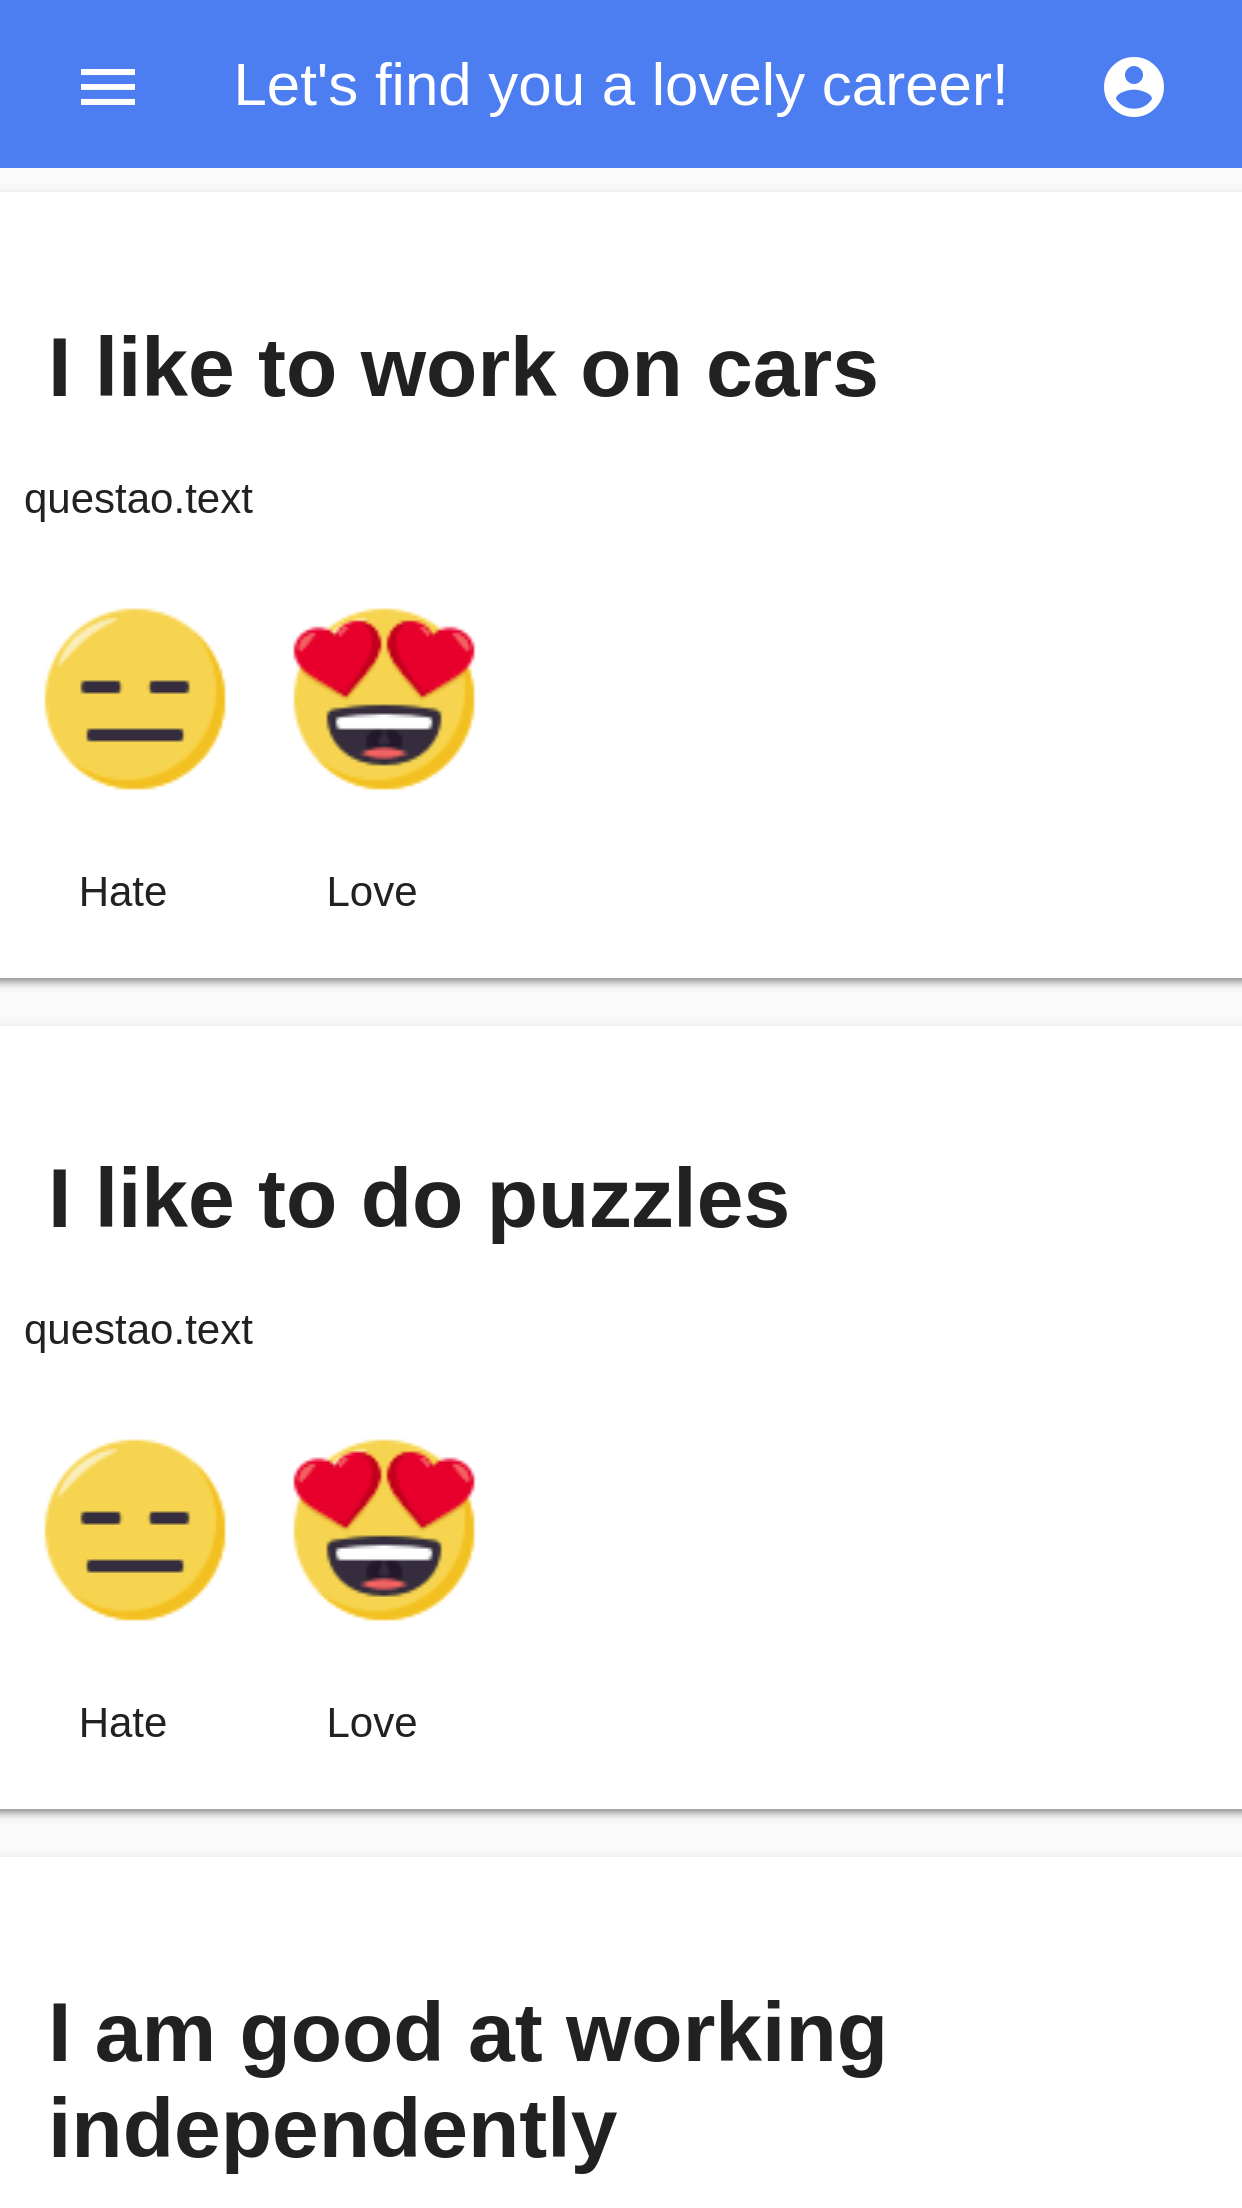
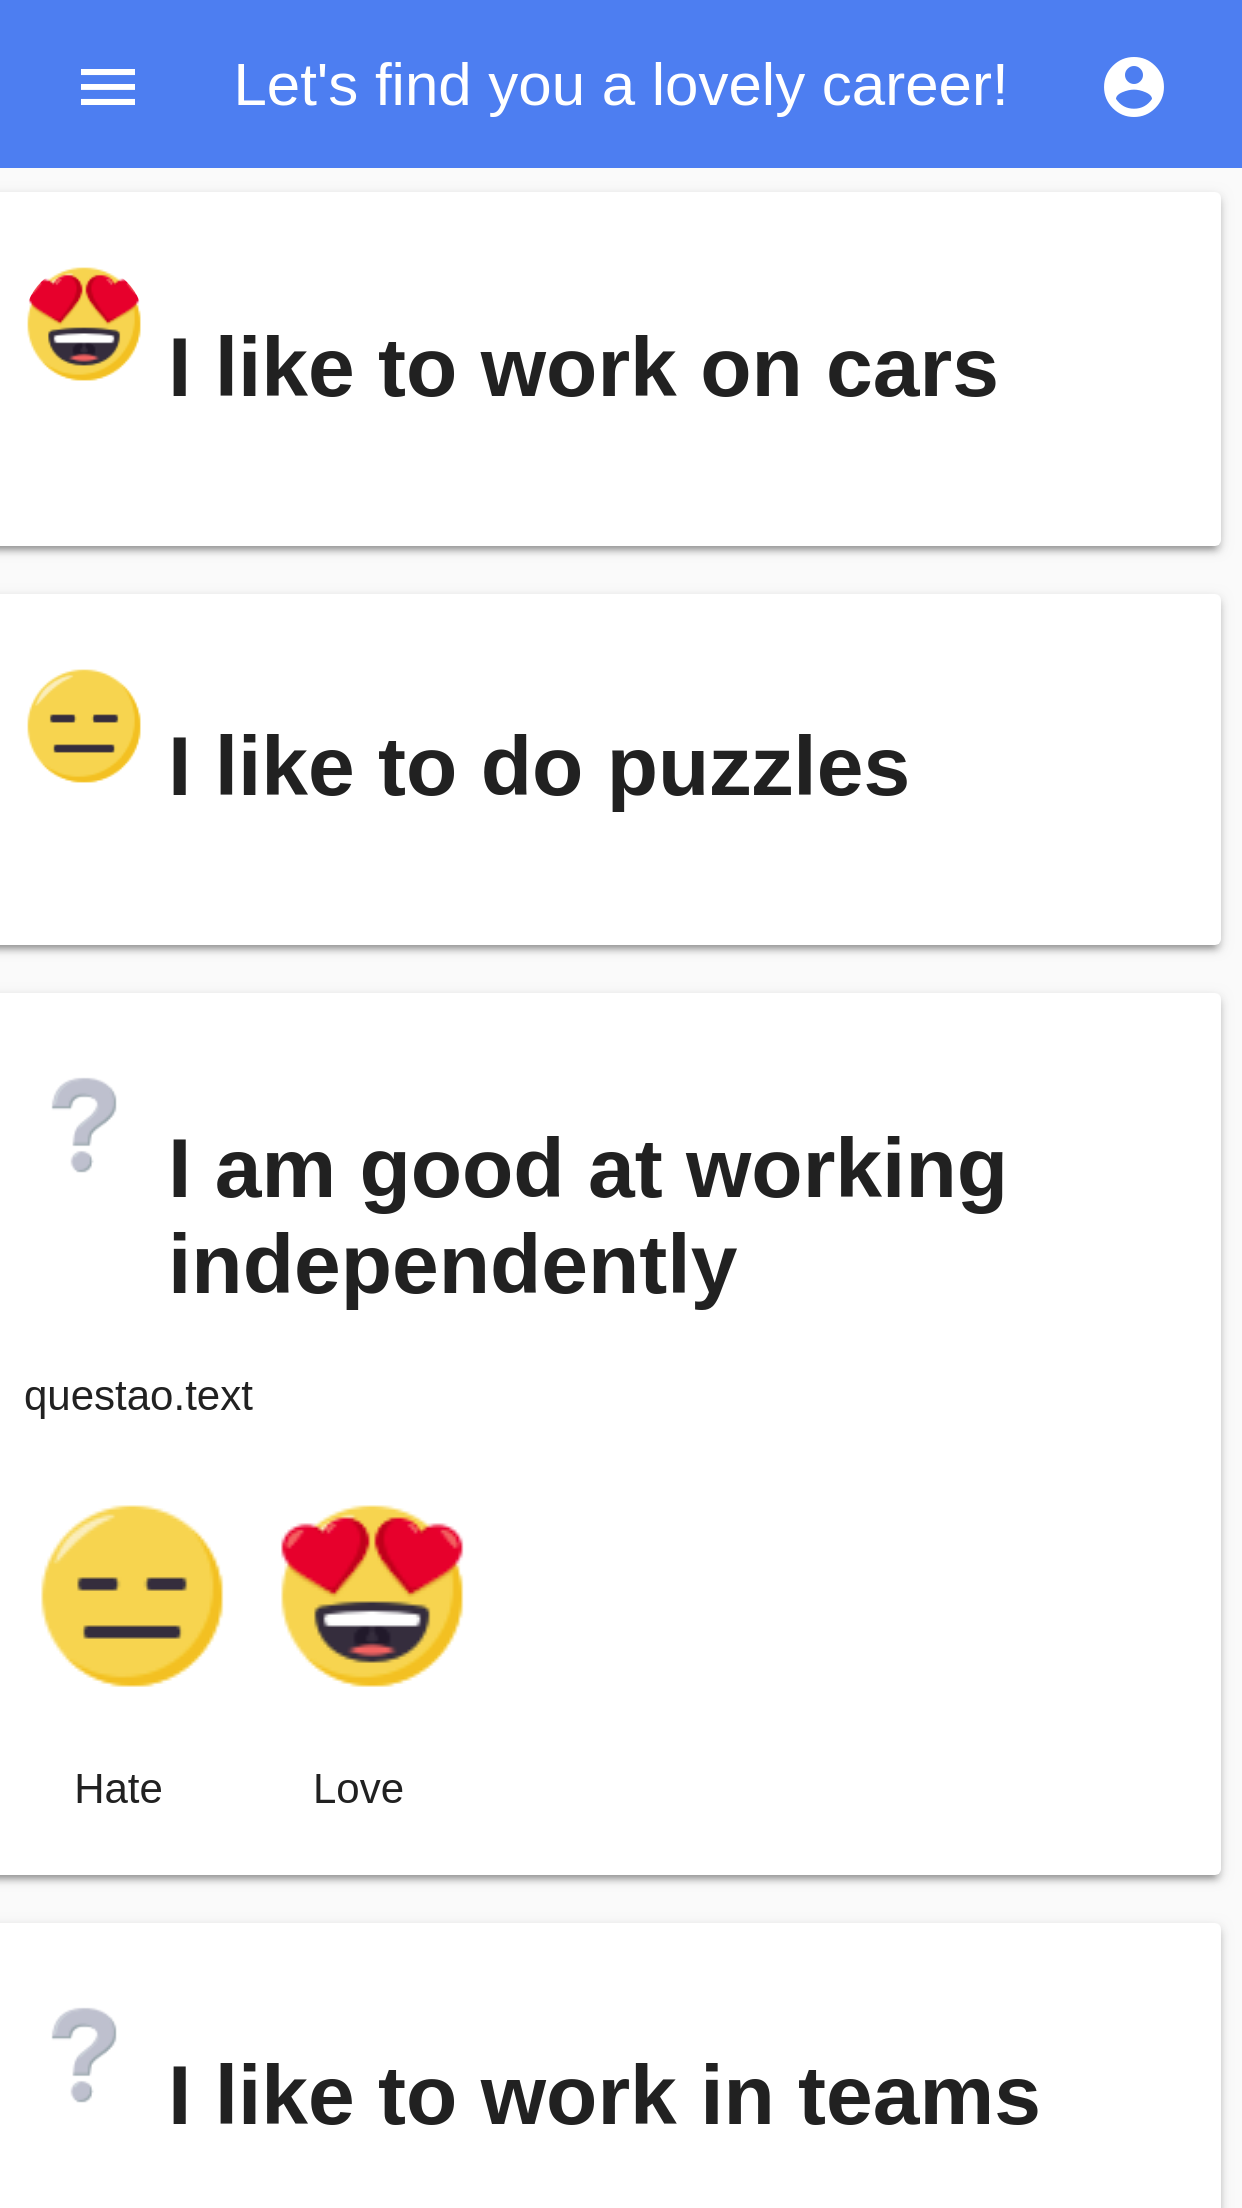
Adicionado comportamento de votar e icone de pergurnta não respondida

diff --git a/angular/src/app/questao/questao.component.html b/angular/src/app/questao/questao.component.html
@@ -1,11 +1,10 @@
 <mat-card>
-  <mat-card-header>
-    <mat-card-title (click)="folded = !folded">
-      <h1>
-        {{ questao.text }}
-      </h1>
-      <span *ngIf="folded && resposta"
-      [innerHTML]="(resposta?.like ? ':expressionless:' : ':heart_eyes:') | emoji | appemoji"></span>
+  <mat-card-header (click)="folded = !folded">
+    <div mat-card-avatar class="header-image" [ngStyle]="{ 'background-image': 'url('+(
+         (resposta ? (resposta?.like ? ':heart_eyes:' : ':expressionless:') :':grey_question:') | emoji|appemoji:64:'url'
+      )+')' }"></div>
+    <mat-card-title>
+      <h1>{{ questao.text }}</h1>
     </mat-card-title>
   </mat-card-header>
   <mat-card-content *ngIf="!folded">
@@ -14,10 +13,10 @@
   <mat-card-actions *ngIf="!folded">
     <mat-grid-list cols="5" rowHeight="120px">
       <mat-grid-tile *ngFor="let opcao of [
-          { text: 'Hate', icon: 'thumb_down', emoji: ':expressionless:'},
-          { text: 'Love', icon: 'favorite', emoji: ':heart_eyes:'}
+          { value: 0, text: 'Hate', icon: 'thumb_down', emoji: ':expressionless:'},
+          { value: 1, text: 'Love', icon: 'favorite', emoji: ':heart_eyes:'}
         ]">
-        <button mat-button>
+        <button mat-button (click)="votar(questao, opcao)">
           <span [innerHTML]="opcao.emoji | emoji | appemoji"></span>
           <br>
           <span>{{ opcao.text }}</span>

diff --git a/angular/src/app/emoji/emoji.pipe.ts b/angular/src/app/emoji/emoji.pipe.ts
@@ -5,7 +5,7 @@ import { Pipe, PipeTransform } from '@angular/core';
 })
 export class EmojiPipe implements PipeTransform {
 
-  public static readonly emojisize = 64;
+  public static readonly DEFAULT_EMOJI_SIZE = 64;
 
   /**
    *
@@ -13,12 +13,19 @@ export class EmojiPipe implements PipeTransform {
    * '<img class="emojione" alt="😍" title=":heart_eyes:" src="https://cdn.jsdelivr.net/emojione/assets/3.1/png/32/1f60d.png"/>'
    * @param args
    */
-  transform(value: string, args?: any): any {
+  transform(value: string, emojiSize: number, onlyUrl: 'url' | 'img'): any {
+    emojiSize = emojiSize > 0 ? emojiSize : EmojiPipe.DEFAULT_EMOJI_SIZE;
+    if (onlyUrl && onlyUrl.startsWith('url')) {
+      return value.replace(
+        /.*src="([^/"]*\/)+(.+\.png)".*/gi,
+        `assets/emojione-static/${emojiSize}/$2`
+      );
+    }
     return value.replace(
       /src="([^/"]*\/)+(.+\.png)"/gi,
-      // `src="https://cdn.jsdelivr.net/emojione/assets/3.1/png/${EmojiPipe.emojisize}/$2" ` +
-      // `srcset="emojione/png/${EmojiPipe.emojisize}/$2 2x, emojione-static/$2 4x"`
-      `src="assets/emojione-static/${EmojiPipe.emojisize}/$2"`
+      // `src="https://cdn.jsdelivr.net/emojione/assets/3.1/png/${emojiSize}/$2" ` +
+      // `srcset="emojione/png/${emojiSize}/$2 2x, emojione-static/$2 4x"`
+      `src="assets/emojione-static/${emojiSize}/$2"`
     );
   }
 

diff --git a/angular/src/app/questao/questao.component.ts b/angular/src/app/questao/questao.component.ts
@@ -24,4 +24,13 @@ export class QuestaoComponent implements OnInit {
   ngOnInit() {
   }
 
+  votar(questao, opcao) {
+    this.resposta = {
+      index: questao.index,
+      grade: questao.grade,
+      like: opcao.value > 0,
+    };
+    this.folded = true;
+  }
+
 }

diff --git a/angular/src/app/questao/questao.component.scss b/angular/src/app/questao/questao.component.scss
@@ -26,3 +26,7 @@ mat-card {
     align-self: center;
   }
 }
+.header-image {
+  background-size: cover;
+  background-image: url('https://material.angular.io/assets/img/examples/shiba1.jpg');
+}
